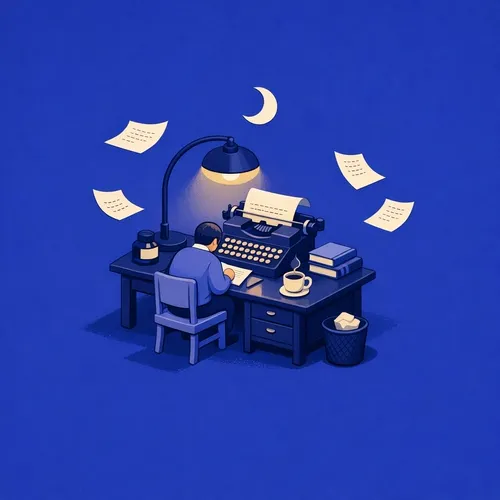
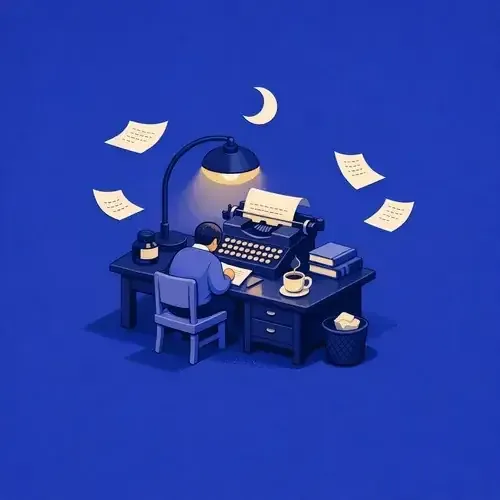
fix: improve onboarding trial gallery images (#15430)

Pull request: fix: improve onboarding trial gallery images
## Summary
- Enlarge the onboarding trial workflow preview by widening the trial illustration panel and letting the workflow image fill the gallery frame.
- Move workflow channel icons into a floating overlay so they no longer consume vertical space above the preview.
- Recompress onboarding gallery WebP assets and mark gallery images for async/lazy loading where appropriate.

## Verification
- pnpm exec prettier --write apps/platform/src/views/zero-page/zero-onboarding.tsx
- pnpm -F @user/app check-types
- pnpm -F @user/app exec vitest run src/views/zero-page/__tests__/zero-onboarding.test.tsx
- pnpm -F @user/app lint
- git diff --check
- Browser harness check: 1440x768 workflow preview ~615x496px; 1024x768 ~432x410px

Changed region(s): [[0.42, 0.48, 0.54, 0.54], [0.6, 0.51, 0.66, 0.57]]

diff --git a/turbo/apps/platform/src/views/zero-page/zero-onboarding.tsx b/turbo/apps/platform/src/views/zero-page/zero-onboarding.tsx
@@ -557,6 +557,19 @@ const TRIAL_ILLUSTRATION_TILES: readonly string[] = [
   illPosterSrc,
 ];
 
+const TRIAL_ILLUSTRATION_TILE_CLASSES: readonly string[] = [
+  "col-start-1 row-start-1 row-span-2",
+  "col-start-2 row-start-1 row-span-2",
+  "col-start-3 row-start-1 row-span-2",
+  "col-start-4 row-start-1 row-span-1",
+  "col-start-1 row-start-3 row-span-2",
+  "col-start-2 row-start-3 row-span-2",
+  "col-start-3 row-start-3 row-span-1",
+  "col-start-4 row-start-2 row-span-2",
+  "col-start-4 row-start-4 row-span-1",
+  "col-start-3 row-start-4 row-span-1",
+];
+
 const TRIAL_GALLERY_THUMBS: readonly string[] = [
   trialWorkflowSrc,
   webModernSrc,
@@ -571,15 +584,21 @@ const TRIAL_WORKFLOW_CHANNELS: readonly { key: string; src: string }[] = [
 
 function TrialWorkflowSlide() {
   return (
-    <div className="h-full w-full flex flex-col items-center justify-center gap-3 p-3">
-      <div className="flex items-center justify-center gap-4">
+    <div className="relative h-full w-full p-1.5">
+      <img
+        src={trialWorkflowSrc}
+        alt="Workflow preview"
+        decoding="async"
+        className="block h-full w-full object-cover object-top rounded-xl"
+      />
+      <div className="zero-border absolute bottom-0 left-1/2 flex -translate-x-1/2 translate-y-1/2 items-center justify-center gap-3 rounded-full bg-background/90 px-3 py-1.5 shadow-sm backdrop-blur">
         {TRIAL_WORKFLOW_CHANNELS.map((channel) => {
           // Slack's source SVG places its mark in the centre of a padded
           // 270x270 viewBox; without scaling, the visible hash mark is much
           // smaller than Telegram + iMessage which fill their own viewBoxes
           // edge to edge. scale-[1.85] sizes Slack to match, and the
-          // remaining ~3px asymmetry around the layout box is well within
-          // the gap-4 (16px) inter-icon spacing.
+          // remaining ~3px asymmetry around the layout box is well within the
+          // icon spacing.
           const slackScale =
             channel.key === "slack" ? "scale-[1.85] -mr-px" : "";
           return (
@@ -587,16 +606,12 @@ function TrialWorkflowSlide() {
               key={channel.key}
               src={channel.src}
               alt=""
-              className={`h-9 w-9 object-contain ${slackScale}`}
+              decoding="async"
+              className={`h-7 w-7 object-contain ${slackScale}`}
             />
           );
         })}
       </div>
-      <img
-        src={trialWorkflowSrc}
-        alt="Workflow preview"
-        className="block min-h-0 max-w-[78%] max-h-full object-contain rounded-xl"
-      />
     </div>
   );
 }
@@ -610,6 +625,8 @@ function TrialWebsiteSlide() {
             <img
               src={src}
               alt=""
+              loading="lazy"
+              decoding="async"
               className="h-full w-full object-cover object-top"
             />
           </div>
@@ -621,11 +638,20 @@ function TrialWebsiteSlide() {
 
 function TrialIllustrationSlide() {
   return (
-    <div className="h-full w-full p-2 overflow-hidden columns-4 gap-2 [&>*]:mb-2 [&>*]:break-inside-avoid">
-      {TRIAL_ILLUSTRATION_TILES.map((src) => {
+    <div className="grid h-full w-full grid-cols-4 grid-rows-4 gap-2 overflow-hidden p-2">
+      {TRIAL_ILLUSTRATION_TILES.map((src, index) => {
         return (
-          <div key={src} className="rounded-xl overflow-hidden bg-background">
-            <img src={src} alt="" className="block w-full h-auto" />
+          <div
+            key={src}
+            className={`overflow-hidden rounded-xl bg-background ${TRIAL_ILLUSTRATION_TILE_CLASSES[index]}`}
+          >
+            <img
+              src={src}
+              alt=""
+              loading="lazy"
+              decoding="async"
+              className="block h-full w-full object-cover object-center"
+            />
           </div>
         );
       })}
@@ -644,9 +670,9 @@ function OnboardingTrialPanel() {
   return (
     <div
       data-testid="onboarding-trial-gallery"
-      className="flex flex-col gap-5 w-full max-w-[560px] items-center"
+      className="flex flex-col gap-6 w-full max-w-[720px] items-center"
     >
-      <div className="aspect-[4/3] w-full rounded-2xl overflow-hidden">
+      <div className="aspect-[5/4] max-h-[min(520px,calc(100dvh-260px))] w-full rounded-2xl">
         {activeIndex === 0 ? (
           <TrialWorkflowSlide />
         ) : activeIndex === 1 ? (
@@ -684,6 +710,8 @@ function OnboardingTrialPanel() {
               <img
                 src={TRIAL_GALLERY_THUMBS[i]}
                 alt=""
+                loading="lazy"
+                decoding="async"
                 className="block w-full h-full object-cover object-center"
               />
             </button>
@@ -1032,15 +1060,14 @@ function OnboardingIllustrationPanel() {
   const showOrbit = stepKey === "connectors";
   const showChat = stepKey === "workspace";
   const showTrial = stepKey === "trial";
+  const panelSizeClass = showTrial
+    ? "lg:w-[48%] px-6 pb-8 pt-16 xl:px-8 xl:pb-10 xl:pt-20"
+    : "w-2/5 p-10";
 
   return (
     <div
-      className={`hidden lg:flex w-2/5 shrink-0 flex-col items-center p-10 relative overflow-hidden ${
-        showChat
-          ? "pt-[8%]"
-          : showTrial
-            ? "justify-start pt-24"
-            : "justify-center"
+      className={`hidden lg:flex ${panelSizeClass} shrink-0 flex-col items-center relative overflow-hidden ${
+        showChat ? "pt-[8%]" : showTrial ? "justify-start" : "justify-center"
       }`}
     >
       {/* Decorative circles (non-orbit, non-chat, non-trial steps) */}
@@ -1053,7 +1080,11 @@ function OnboardingIllustrationPanel() {
         </div>
       )}
 
-      <div className="relative z-10 flex flex-col items-center">
+      <div
+        className={`relative z-10 flex flex-col items-center ${
+          showTrial ? "w-full" : ""
+        }`}
+      >
         {showChat ? (
           <ChatPreview />
         ) : showOrbit ? (
@@ -1147,7 +1178,7 @@ function OnboardingPageLayout({ children }: { children: React.ReactNode }) {
       <div className="flex flex-1 flex-col min-w-0 bg-background items-center">
         <div className="flex flex-col w-full max-w-[750px] flex-1 min-h-0">
           {/* Progress bar */}
-          <div className="shrink-0 px-5 sm:px-10 pt-8 pb-4">
+          <div className="shrink-0 px-5 pb-4 pt-16 sm:px-10 lg:pt-8">
             <OnboardingProgressBar />
           </div>
 